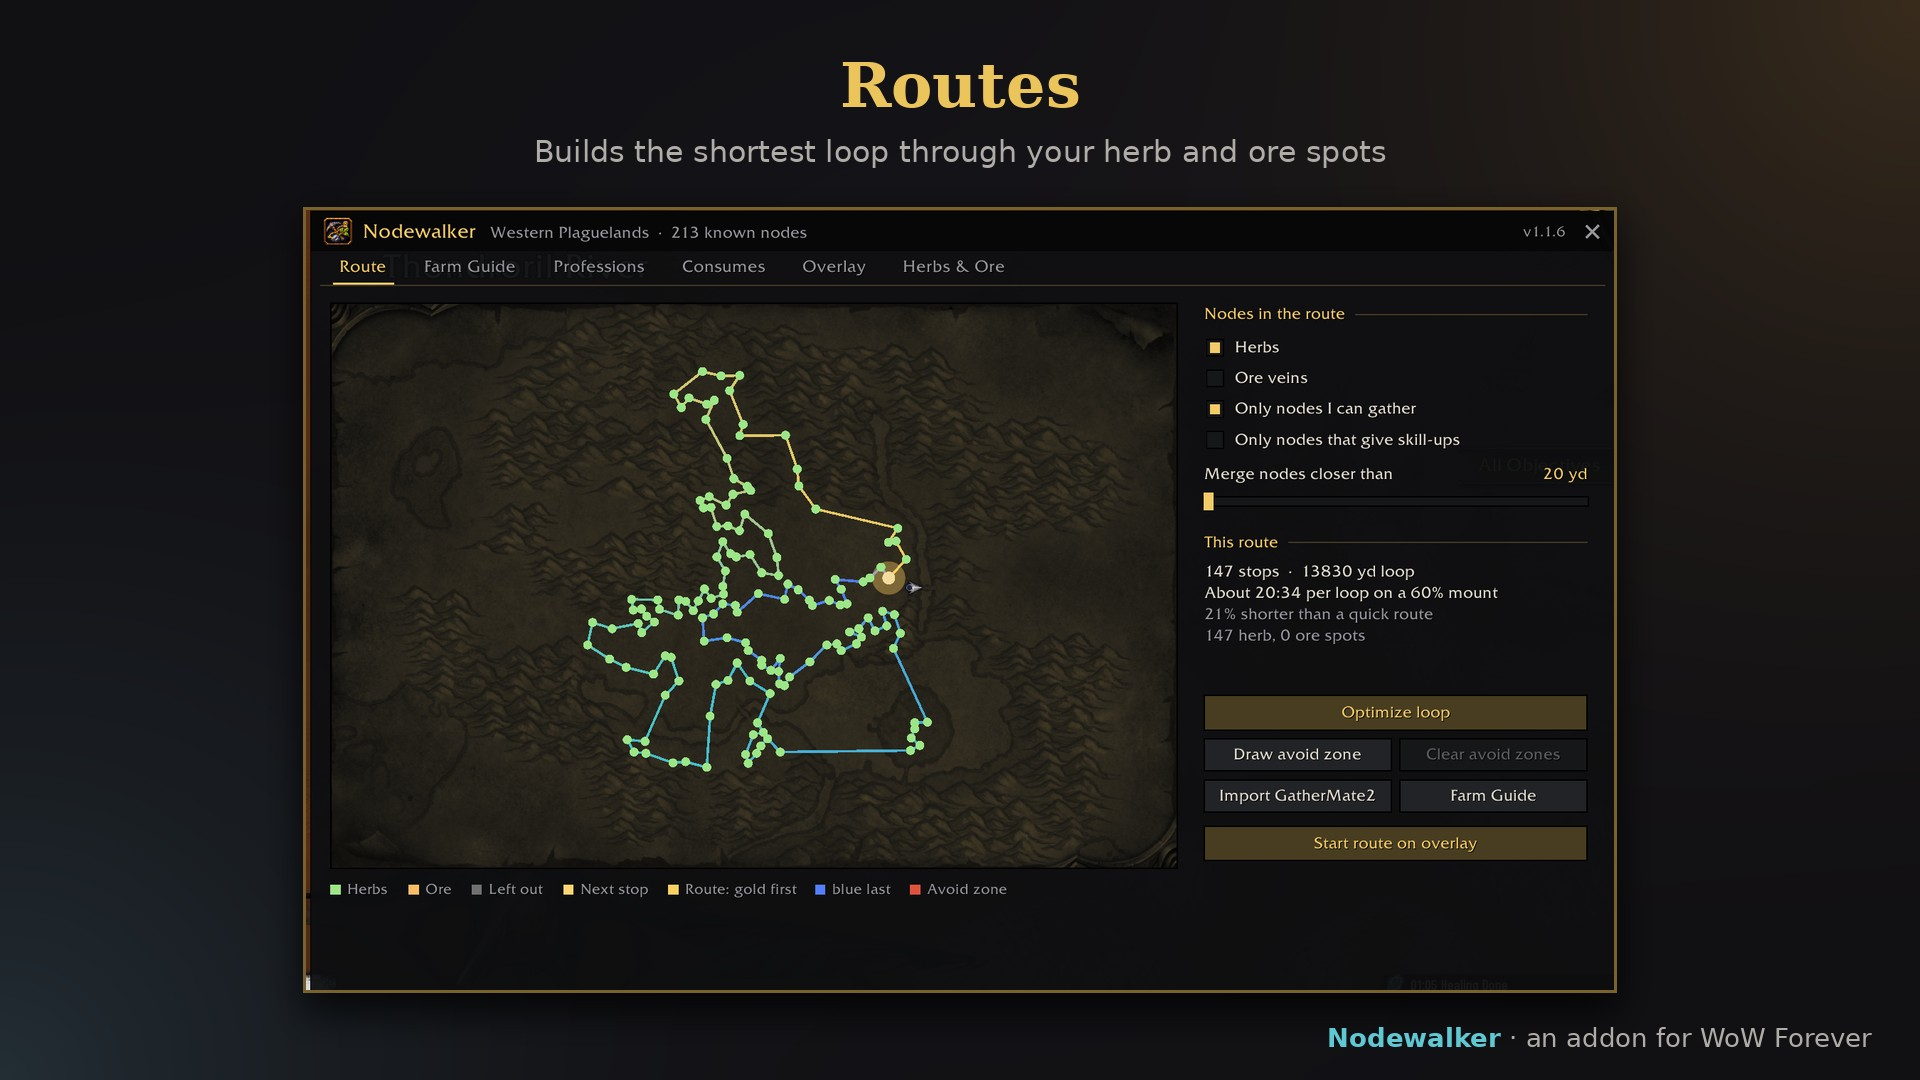
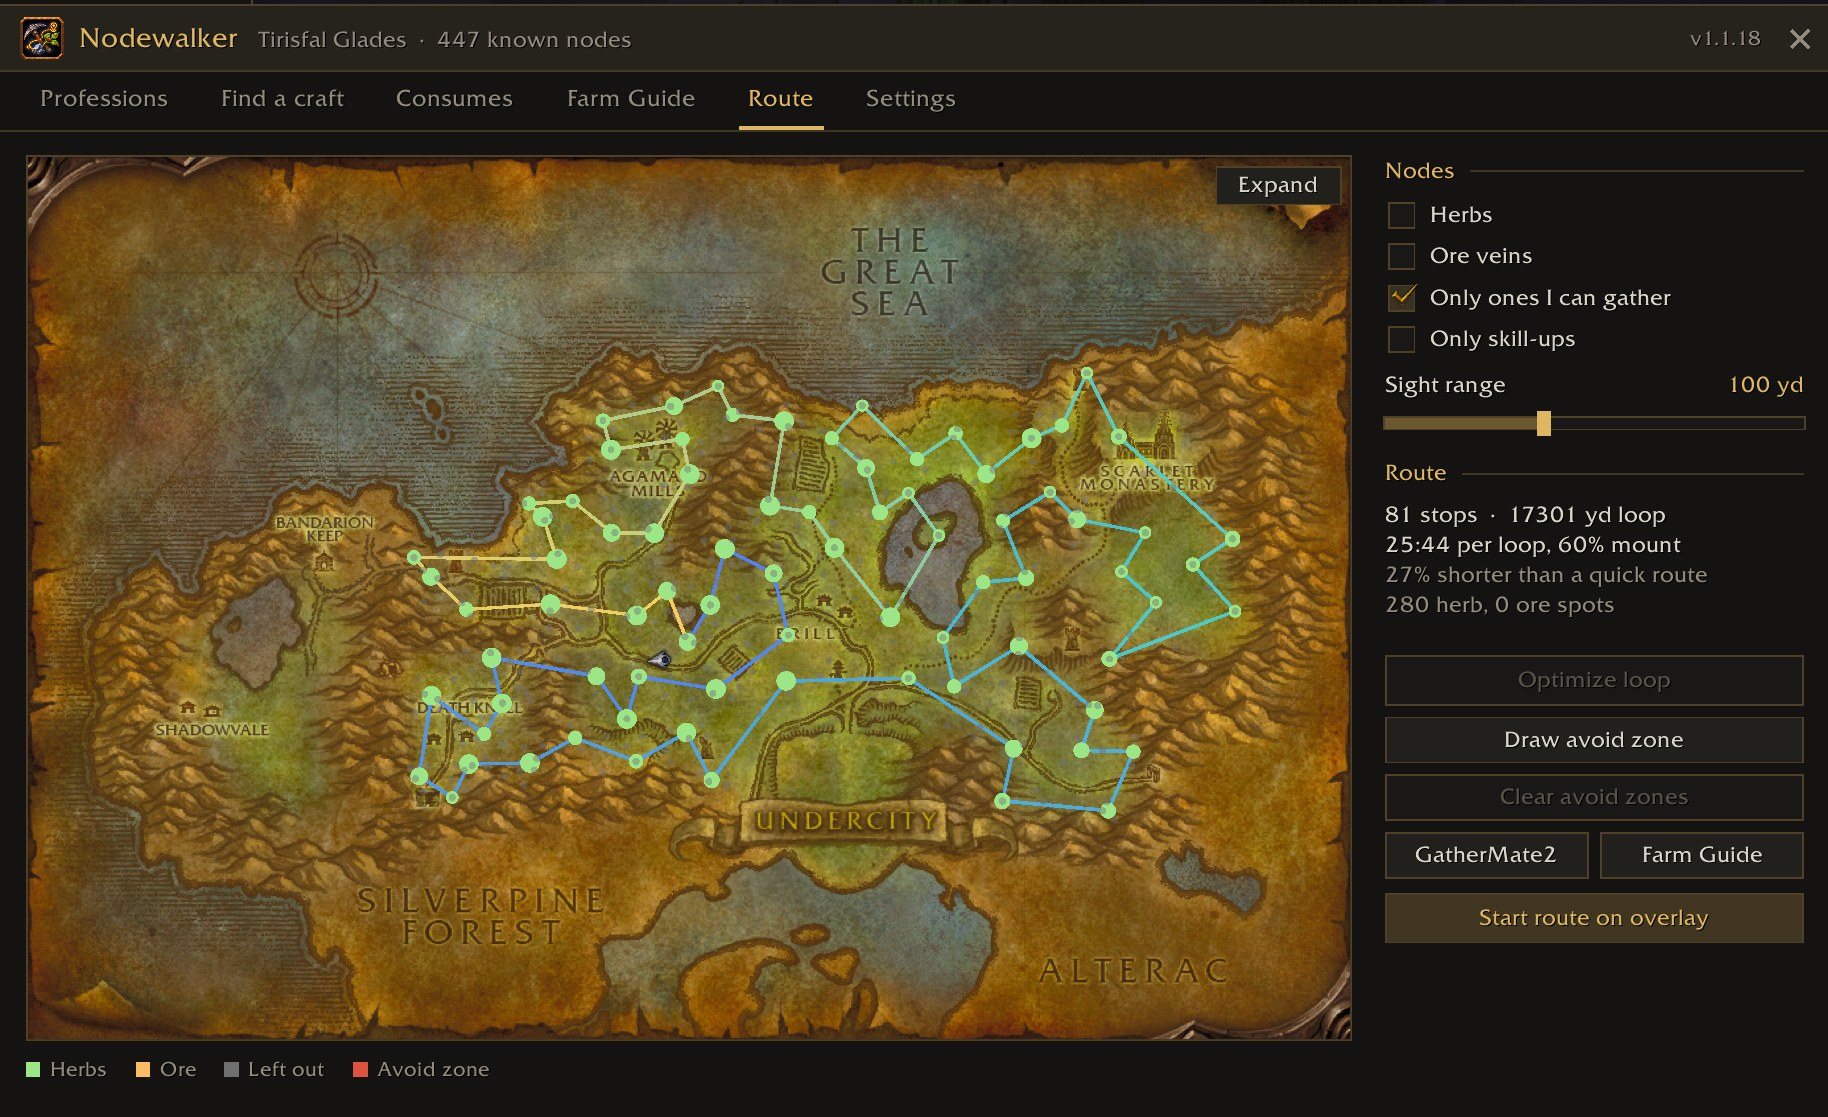
CurseForge page: new screenshots, getting started, Missing recipes and Find a craft pictures
Claude-Session: https://claude.ai/code/session_019g77EgmSq5JKQjCZvsLEi1

diff --git a/CURSEFORGE.md b/CURSEFORGE.md
@@ -4,13 +4,21 @@
 
 Imports your GatherMate2 nodes. Prices everything with Auctionator.
 
+## Getting started
+
+1. Install **GatherMate2** and **GatherMate2_Data**, and enable both.
+2. Log in and type `/nw import` (or click **GatherMate2** on the Route tab). Nodewalker keeps its own copy, so you can turn GatherMate2 off afterwards.
+3. Install **Auctionator** for live prices.
+
 ## Farming overlay
 
 ![Farming overlay](https://raw.githubusercontent.com/Vx1125/Nodewalker/main/screenshots/overlay.jpg)
 
 - A Diablo-style map in the middle of your screen
-- Every known herb and ore spot, plus live dots from your minimap
+- Every known herb and ore spot, plus live dots from your minimap: confirmed spots light up
+- Your route drawn on top, brightest where you are
 - Click-through, fades while you move, hides in combat and cities
+- Session panel: what you've gathered, loops and value
 
 ## Routes
 
@@ -24,29 +32,39 @@ Imports your GatherMate2 nodes. Prices everything with Auctionator.
 
 ![Farm Guide](https://raw.githubusercontent.com/Vx1125/Nodewalker/main/screenshots/herb-guide.jpg)
 
-- Best zones for every herb and ore
-- Ranked by spots per minute and gold per hour
+- Best zones for every herb and ore, side by side: spots, loop time, spots per minute, gold per hour
+- Sort by any of them; one click builds the route
 - **Both** view for Herbalism + Mining
 
-## Professions
+## Leveling
 
-![Professions](https://raw.githubusercontent.com/Vx1125/Nodewalker/main/screenshots/professions.jpg)
+![Leveling](https://raw.githubusercontent.com/Vx1125/Nodewalker/main/screenshots/professions.jpg)
 
-- Cheapest way to 300 for every profession, at today's prices
-- Shopping list with one-click Auctionator search
-- Where to train each rank, pinned on your map
-- Every recipe you're missing and where it comes from
-- Craft straight from the plan
+- The way to 300 for every profession, at today's prices: cheapest, fewest crafts, or only recipes you know
+- Grouped by rank, with each trainer stop pinned on your map
+- Shopping list in recipes, materials and vendor supplies, counting your bags
+- One-click Auctionator search; craft straight from the plan
+
+## Missing recipes
+
+![Missing recipes](https://raw.githubusercontent.com/Vx1125/Nodewalker/main/screenshots/missing-recipes.jpg)
+
+- Every recipe you don't know and where it comes from
+- Filter by source: trainer, Merchant's Favor, vendors and drops
+- Your faction's trainers and Favor vendor
 
 ## Profit
 
 ![Profit](https://raw.githubusercontent.com/Vx1125/Nodewalker/main/screenshots/profit.jpg)
 
-- What every recipe earns right now, best first, above the profit you set
+- What every recipe earns right now, after the auction cut
+- Sort by profit, return or what your bags can make now
 - Click a recipe for its materials and what each costs
 - Counts disenchant value for gear
 
 ## Find a craft
+
+![Find a craft](https://raw.githubusercontent.com/Vx1125/Nodewalker/main/screenshots/find-a-craft.jpg)
 
 - Any recipe in any profession, to have someone make it
 - What the materials cost, what's left after your bags, and the AH price ready-made
@@ -59,8 +77,9 @@ Imports your GatherMate2 nodes. Prices everything with Auctionator.
 - Raid consumables for every class and spec
 - **My level**: the best you can use while leveling
 - Stock for a 2, 3 or 4 hour raid: have against need
-- Make or buy, whichever is cheaper
+- Craft or buy, side by side, with the materials you have
 - One search for everything you're short of
+- Saved per character
 
 ## Also
 
@@ -68,7 +87,7 @@ Imports your GatherMate2 nodes. Prices everything with Auctionator.
 
 - Gathering and Fishing guides by skill range
 - A Nodewalker button on your profession window
-- Minimap button, action bar button, key bindings
+- In the game's AddOns menu; action bar button; key bindings
 - Presets: Farming, Questing, Minimal
 
 ## Works with
@@ -78,7 +97,7 @@ Imports your GatherMate2 nodes. Prices everything with Auctionator.
 
 ## Commands
 
-`/nw` overlay · `/nw plan` routes · `/nw guide` Farm Guide · `/nw prof` professions · `/nw consumes` · `/nw options`
+`/nw` overlay · `/nw plan` routes · `/nw guide` Farm Guide · `/nw prof` professions · `/nw consumes` · `/nw options` · `/nw import` GatherMate2
 
 ## Credits
 
